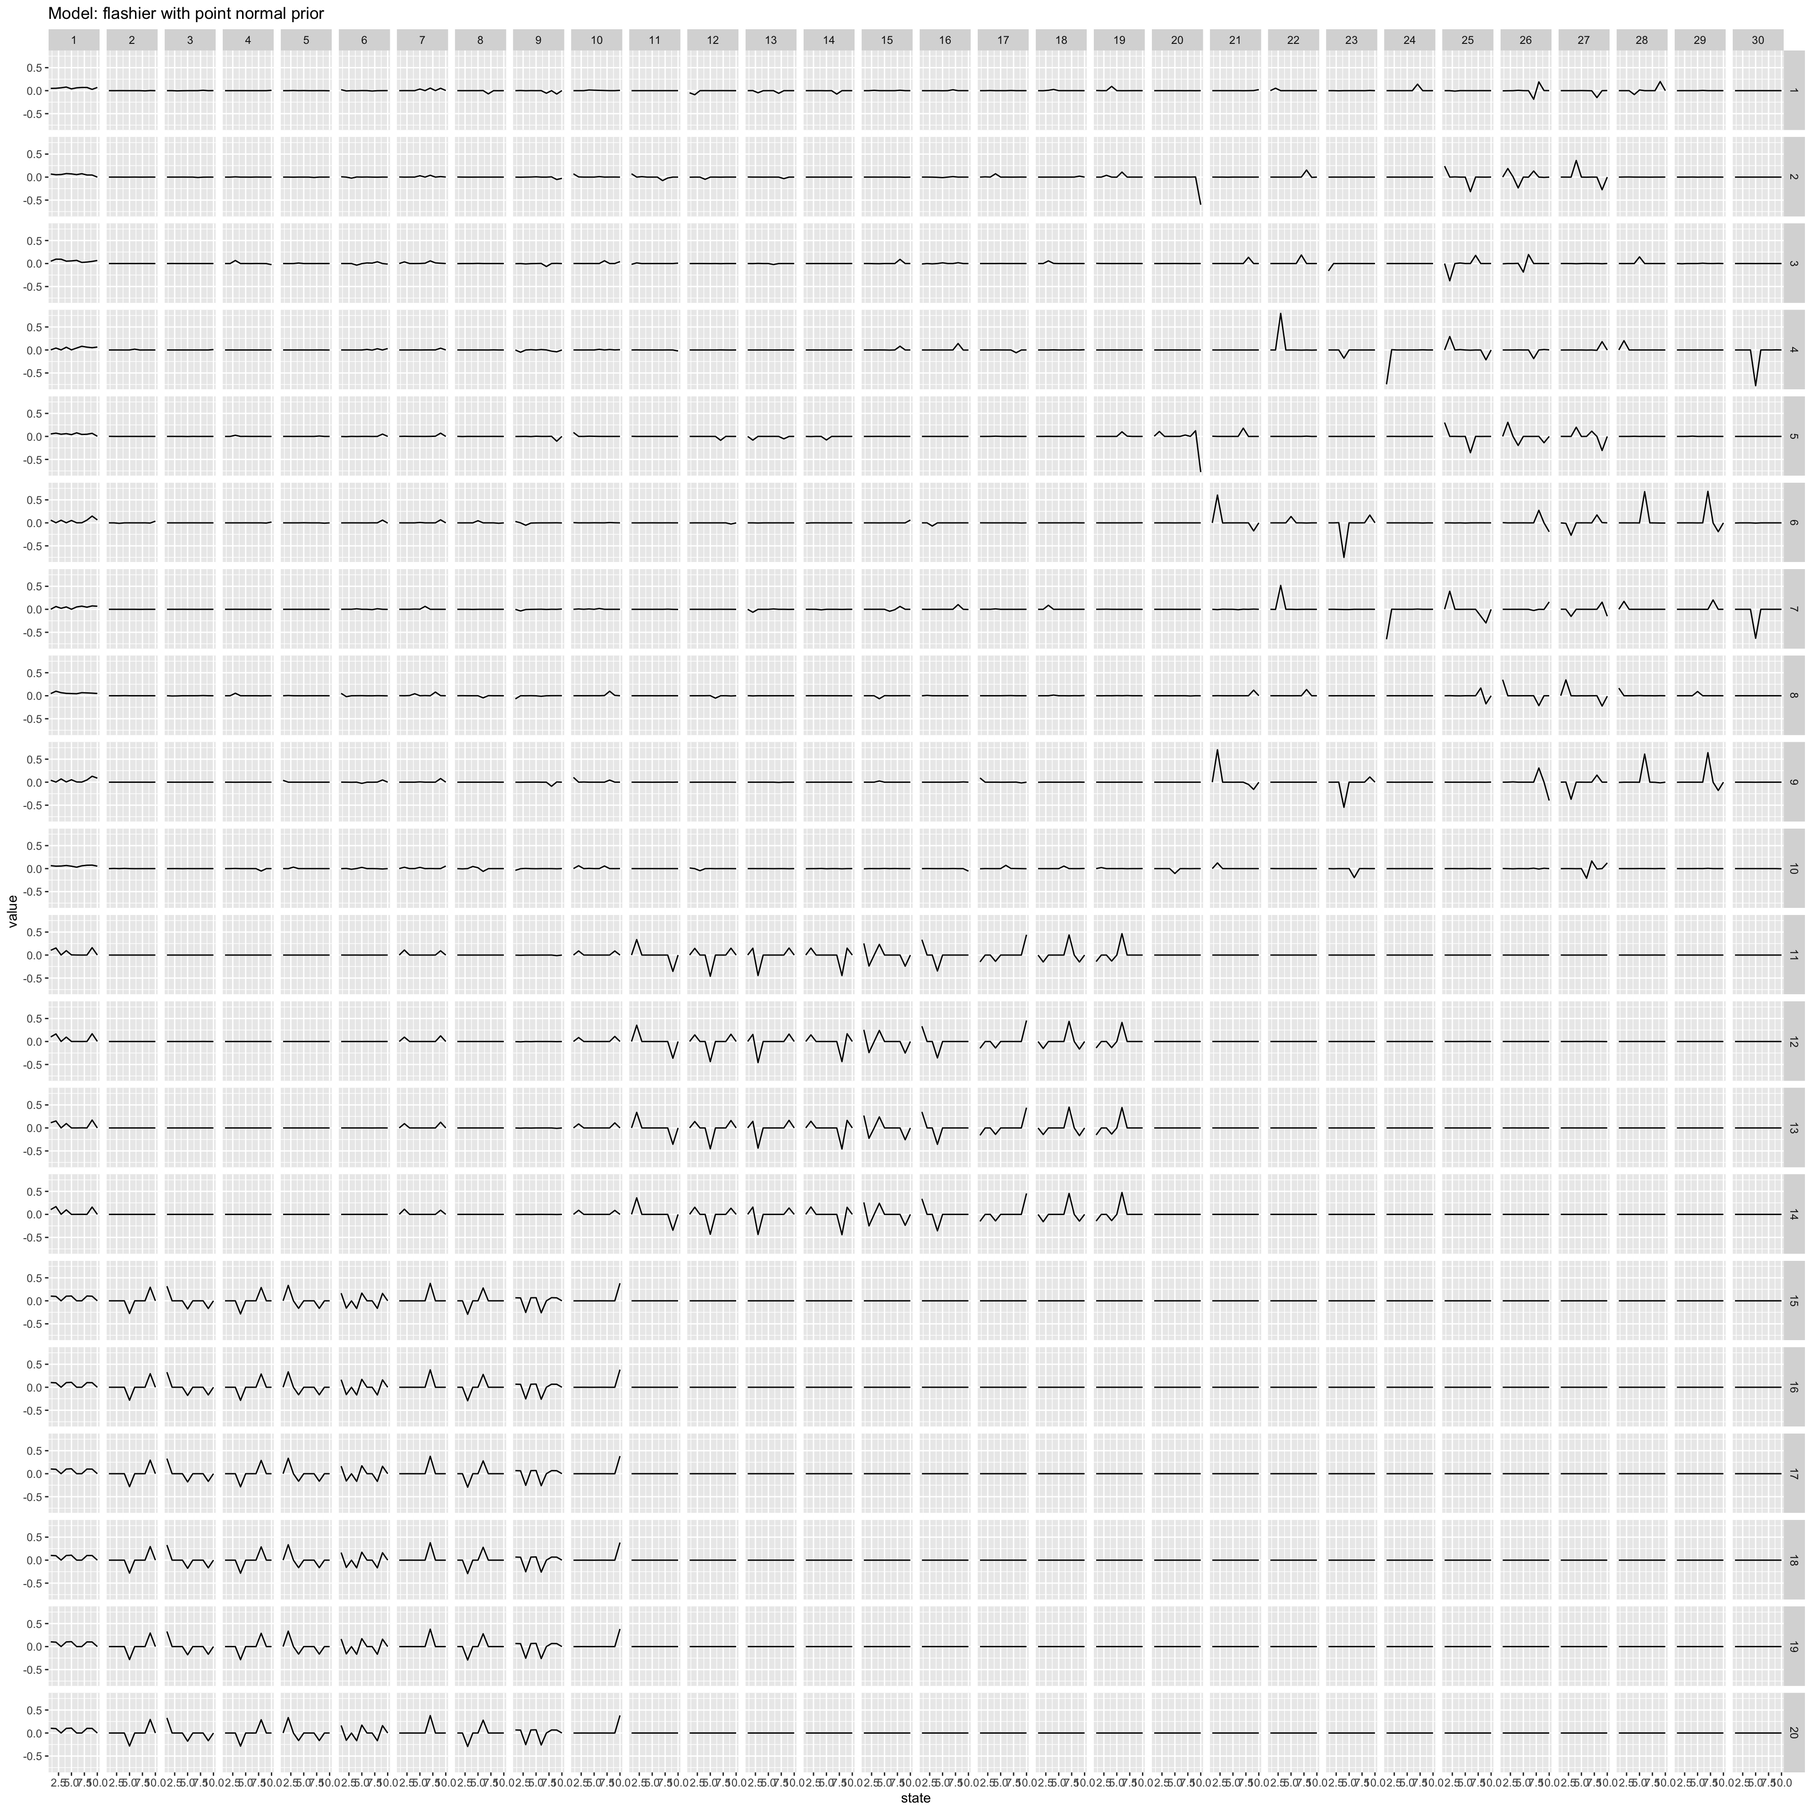
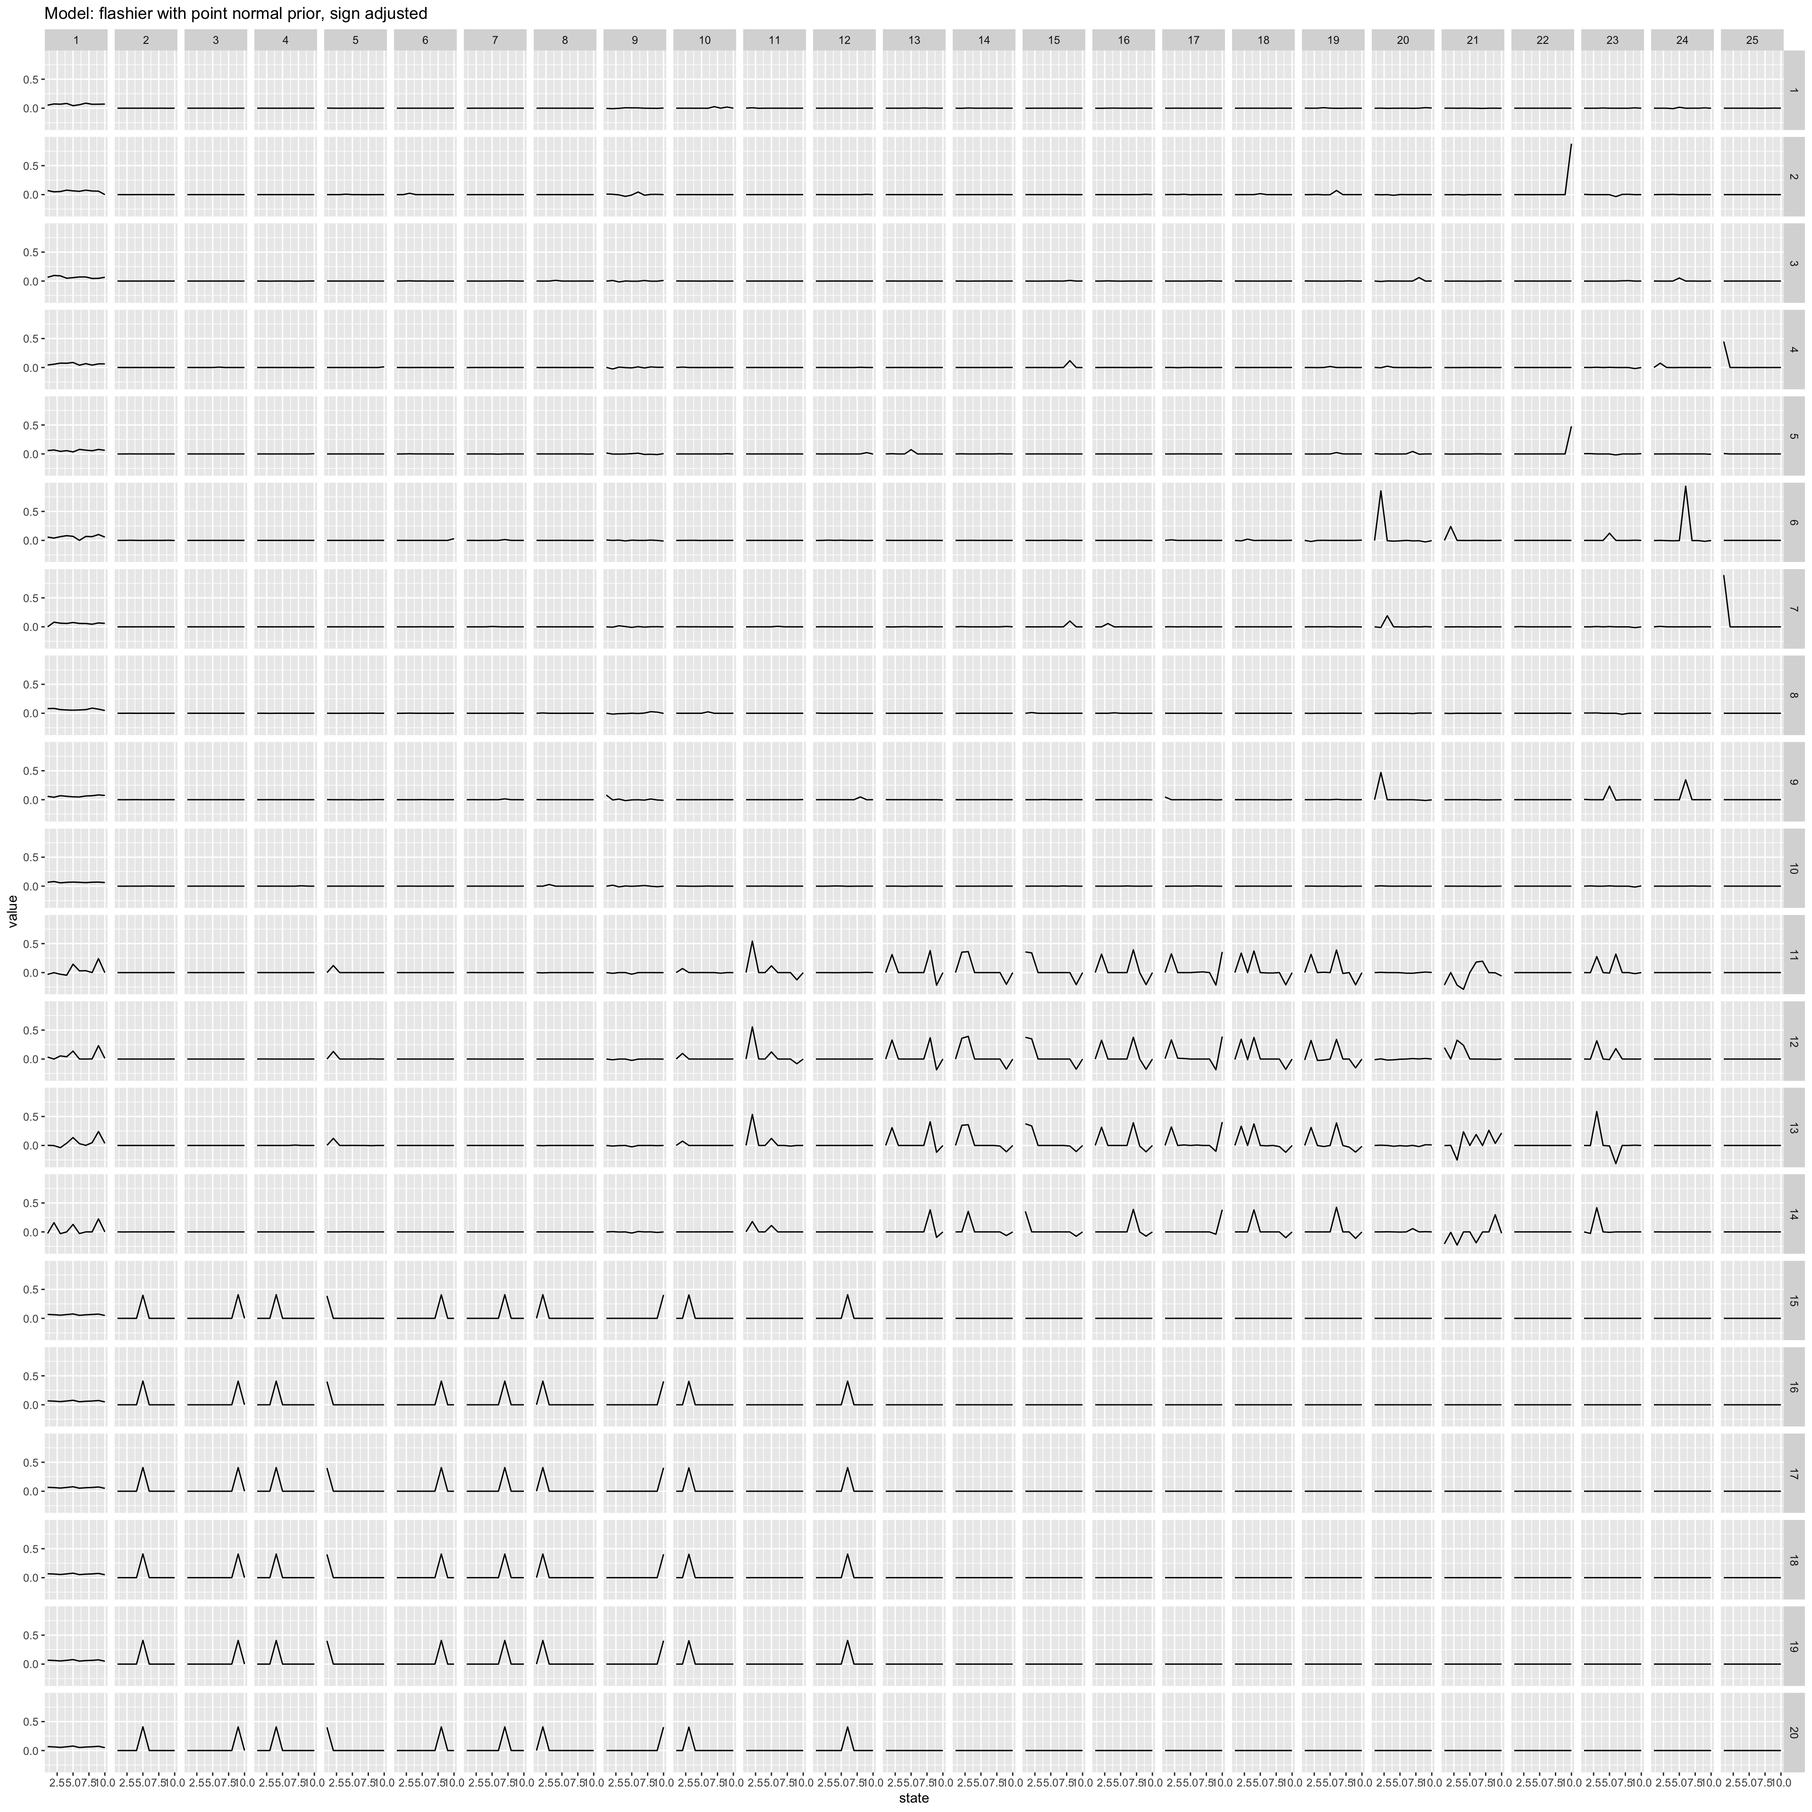
Build site.

Changed region(s): [[0.0, 0.0, 0.9688, 1.0]]

diff --git a/docs/flashier.html b/docs/flashier.html
@@ -11,7 +11,7 @@
 
 <meta name="author" content="Joonsuk Kang" />
 
-<meta name="date" content="2020-03-23" />
+<meta name="date" content="2020-03-26" />
 
 <title>flashier on toy data</title>
 
@@ -387,7 +387,7 @@ div.section {
 
 <h1 class="title toc-ignore">flashier on toy data</h1>
 <h4 class="author">Joonsuk Kang</h4>
-<h4 class="date">2020-03-23</h4>
+<h4 class="date">2020-03-26</h4>
 
 </div>
 
@@ -412,7 +412,7 @@ div.section {
 <div class="tab-content">
 <div id="summary" class="tab-pane fade in active">
 <p>
-<strong>Last updated:</strong> 2020-03-24
+<strong>Last updated:</strong> 2020-03-26
 </p>
 <p>
 <strong>Checks:</strong> <span class="glyphicon glyphicon-ok text-success" aria-hidden="true"></span> 7 <span class="glyphicon glyphicon-exclamation-sign text-danger" aria-hidden="true"></span> 0
@@ -503,10 +503,10 @@ This reproducible <a href="http://rmarkdown.rstudio.com">R Markdown</a> analysis
 <div class="panel panel-default">
 <div class="panel-heading">
 <p class="panel-title">
-<a data-toggle="collapse" data-parent="#workflowr-checks" href="#strongRepositoryversionstrongahrefhttpsgithubcomjoonsukkangaainttreefc04947682ebcc1f24ab6fea7e2a5fa884f22374targetblankfc04947a"> <span class="glyphicon glyphicon-ok text-success" aria-hidden="true"></span> <strong>Repository version:</strong> <a href="https://github.com/joonsukkang/aaint/tree/fc04947682ebcc1f24ab6fea7e2a5fa884f22374" target="_blank">fc04947</a> </a>
+<a data-toggle="collapse" data-parent="#workflowr-checks" href="#strongRepositoryversionstrongahrefhttpsgithubcomjoonsukkangaainttree8615dccac0ada9ded8393419d365985ad051e94btargetblank8615dcca"> <span class="glyphicon glyphicon-ok text-success" aria-hidden="true"></span> <strong>Repository version:</strong> <a href="https://github.com/joonsukkang/aaint/tree/8615dccac0ada9ded8393419d365985ad051e94b" target="_blank">8615dcc</a> </a>
 </p>
 </div>
[2 lines of base64/hex data omitted]
 <div class="panel-body">
 <p>
 Great! You are using Git for version control. Tracking code development and connecting the code version to the results is critical for reproducibility. The version displayed above was the version of the Git repository at the time these results were generated. <br><br> Note that you need to be careful to ensure that all relevant files for the analysis have been committed to Git prior to generating the results (you can use <code>wflow_publish</code> or <code>wflow_git_commit</code>). workflowr only checks the R Markdown file, but you know if there are other scripts or data files that it depends on. Below is the status of the Git repository when the results were generated:
@@ -519,9 +519,10 @@ Ignored files:
 
 Untracked files:
     Untracked:  analysis/STRUCTURE.Rmd
-    Untracked:  analysis/flash_pdz.Rmd
+    Untracked:  analysis/flashier2.Rmd
     Untracked:  analysis/ideas.Rmd
     Untracked:  analysis/mm_20200311.Rmd
+    Untracked:  analysis/pdz.Rmd
     Untracked:  analysis/temp.Rmd
     Untracked:  analysis/test.Rmd
     Untracked:  code/convert_files_mat_to_text.R
@@ -585,6 +586,40 @@ Message
 Rmd
 </td>
 <td>
+<a href="https://github.com/joonsukkang/aaint/blob/8615dccac0ada9ded8393419d365985ad051e94b/analysis/flashier.Rmd" target="_blank">8615dcc</a>
+</td>
+<td>
+Joonsuk Kang
+</td>
+<td>
+2020-03-26
+</td>
+<td>
+add column specific residual variance to flashier configurations
+</td>
+</tr>
+<tr>
+<td>
+html
+</td>
+<td>
+<a href="https://rawcdn.githack.com/joonsukkang/aaint/1964152c7e83cafe4a9e1027b823700278c692d8/docs/flashier.html" target="_blank">1964152</a>
+</td>
+<td>
+Joonsuk Kang
+</td>
+<td>
+2020-03-24
+</td>
+<td>
+Build site.
+</td>
+</tr>
+<tr>
+<td>
+Rmd
+</td>
+<td>
 <a href="https://github.com/joonsukkang/aaint/blob/fc04947682ebcc1f24ab6fea7e2a5fa884f22374/analysis/flashier.Rmd" target="_blank">fc04947</a>
 </td>
 <td>
@@ -642,12 +677,12 @@ initial commit for flashier and flash_omega
 <h2>Data</h2>
 <p>Matrix <span class="math inline">\(A\)</span> with <span class="math inline">\(dim(A)=N \times L\)</span> and <span class="math inline">\(A_{ij}\in \{1,2,\dots,q\}\)</span> where N=300 sequences; L=20 positions; q=10 potts-states</p>
 <pre class="r"><code>library(tidyverse)</code></pre>
-<pre><code>── Attaching packages ────────────────────────────────────────────────────────────── tidyverse 1.3.0 ──</code></pre>
+<pre><code>── Attaching packages ───────────────────────────────────────────────────────────────── tidyverse 1.3.0 ──</code></pre>
 <pre><code>✓ ggplot2 3.3.0     ✓ purrr   0.3.3
 ✓ tibble  2.1.3     ✓ dplyr   0.8.4
 ✓ tidyr   1.0.2     ✓ stringr 1.4.0
 ✓ readr   1.3.1     ✓ forcats 0.5.0</code></pre>
-<pre><code>── Conflicts ───────────────────────────────────────────────────────────────── tidyverse_conflicts() ──
+<pre><code>── Conflicts ──────────────────────────────────────────────────────────────────── tidyverse_conflicts() ──
 x dplyr::filter() masks stats::filter()
 x dplyr::lag()    masks stats::lag()</code></pre>
 <pre class="r"><code>data &lt;- read_table2(&quot;data/align300_q10&quot;, col_names = FALSE)</code></pre>
@@ -677,7 +712,7 @@ This happens occasionally, perhaps due to numeric reasons. You could ignore this
 warning, but you might like to check out https://github.com/stephenslab/flashr/
 issues/26 for more details.</code></pre>
 <pre class="r"><code>toc()</code></pre>
-<pre><code>15.407 sec elapsed</code></pre>
+<pre><code>15.568 sec elapsed</code></pre>
 <pre class="r"><code>factor &lt;- flashr::flash_get_ldf(fit)$f
 l &lt;- ncol(factor)
 data.frame(factor = rep(1:l, each=200),
@@ -777,7 +812,7 @@ Joonsuk Kang
 </div>
 <div id="estimation-with-flashier-package" class="section level2">
 <h2>Estimation with <code>flashier</code> package</h2>
-<p>The <code>flashier</code> package provides a variety of choices for prior distribution families. The results from a few relevant choices are shown below. Note that the <code>flash</code> package has point normal prior family as default option.</p>
+<p>The <code>flashier</code> package provides a variety of choices for prior distribution families. The results from point normal and nonnegative priors are shown below. Note that the <code>flash</code> package has point normal prior family as default option. Also, column specific residual variances are assumed in both flash and flashier.</p>
 <div id="point-normal-prior-default" class="section level4">
 <h4>point normal prior (default)</h4>
 <p>The default for prior family is point normal: <code>prior.family = prior.point.normal()</code></p>
@@ -786,18 +821,27 @@ Joonsuk Kang
   method      from  
   print.flash flashr</code></pre>
 <pre class="r"><code>tic()
-fit &lt;- flashier::flash(data, greedy.Kmax = 30, backfit=TRUE,
-                       verbose.lvl = 0) # at most 30 factors
+fit &lt;- flashier::flash(data, greedy.Kmax = 30, backfit=TRUE, # at most 30 factors
+                       verbose.lvl = 0,
+                       var.type=2 # column specific residual variance
+                       ) 
 toc()</code></pre>
-<pre><code>15.904 sec elapsed</code></pre>
+<pre><code>7.303 sec elapsed</code></pre>
 <pre class="r"><code>factor &lt;- fit$loadings.pm[[2]]
 l &lt;- ncol(factor)
+
+# adjust the sign of factors so that the mean weight for each factor is positive
+for (colidx in 1:ncol(factor)){
+  s &lt;- sign(colMeans(factor))[colidx]
+  factor[,colidx] &lt;- factor[,colidx]*s
+}
+
 data.frame(factor = rep(1:l, each=200),
            position = rep(rep(1:20, each=10), times=l),
            state = rep(1:10, times=20*l),
            value = c(factor)) %&gt;%
   ggplot()+geom_line(aes(x=state, y=value))+facet_grid(position~factor)+
-  ggtitle(&quot;Model: flashier with point normal prior&quot;)</code></pre>
+  ggtitle(&quot;Model: flashier with point normal prior, sign adjusted&quot;)</code></pre>
 <p><img src="figure/flashier.Rmd/unnamed-chunk-3-1.png" width="1920" style="display: block; margin: auto;" /></p>
 <p>
 <button type="button" class="btn btn-default btn-xs btn-workflowr btn-workflowr-fig" data-toggle="collapse" data-target="#fig-unnamed-chunk-3-1">
@@ -836,7 +880,7 @@ Joonsuk Kang
 </table>
 </div>
 </div>
-<p>The fitted model with point normal prior fails to preserve the sparsity observed in the fitted model from baseline <code>flash</code> model, though taking the same point normal prior.</p>
+<p>For the same setting (point normal prior and column specific residual variance), the two approaches show almost idencial resuts. The flashier implementation is two times faster.</p>
 </div>
 <div id="nonnegative-prior" class="section level4">
 <h4>nonnegative prior</h4>
@@ -844,11 +888,13 @@ Joonsuk Kang
 tic()
 fit &lt;- flashier::flash(data, greedy.Kmax = 30, backfit=TRUE,
                        prior.family = prior.nonnegative(),
-                       verbose.lvl=0) # at most 30 factors</code></pre>
+                       verbose.lvl=0,
+                       var.type=2 # column specific residual variance
+                       ) </code></pre>
 <pre><code>Warning in scale.EF(EF): Fitting stopped after the initialization function
 failed to find a non-zero factor.</code></pre>
 <pre class="r"><code>toc()</code></pre>
-<pre><code>32.09 sec elapsed</code></pre>
+<pre><code>26.212 sec elapsed</code></pre>
 <pre class="r"><code>factor &lt;- fit$loadings.pm[[2]]
 l &lt;- ncol(factor)
 data.frame(factor = rep(1:l, each=200),
@@ -895,121 +941,7 @@ Joonsuk Kang
 </table>
 </div>
 </div>
-<p>The fitted model with nonnegative prior has smaller number of factors (18) than the other fitted models, which stop only after hitting the maximum setting (30). The model captures the two strong correlation structures in positions 11-14 and 15–20, but fails to identify factors which capture correlation structures in 1–10, which are independent from the structures in 11-20.</p>
-</div>
-<div id="point-laplace-prior" class="section level4">
-<h4>point laplace prior</h4>
-<pre class="r"><code>#library(flashier)
-tic()
-fit &lt;- flashier::flash(data, greedy.Kmax = 30, backfit=TRUE,
-                       prior.family = prior.point.laplace(),
-                       verbose.lvl=0) # at most 30 factors
-toc()</code></pre>
-<pre><code>23.524 sec elapsed</code></pre>
-<pre class="r"><code>factor &lt;- fit$loadings.pm[[2]]
-l &lt;- ncol(factor)
-data.frame(factor = rep(1:l, each=200),
-           position = rep(rep(1:20, each=10), times=l),
-           state = rep(1:10, times=20*l),
-           value = c(factor)) %&gt;%
-  ggplot()+geom_line(aes(x=state, y=value))+facet_grid(position~factor)+
-  ggtitle(&quot;Model: flashier with point laplace prior&quot;)</code></pre>
-<p><img src="figure/flashier.Rmd/unnamed-chunk-5-1.png" width="1920" style="display: block; margin: auto;" /></p>
-<p>
-<button type="button" class="btn btn-default btn-xs btn-workflowr btn-workflowr-fig" data-toggle="collapse" data-target="#fig-unnamed-chunk-5-1">
-Past versions of unnamed-chunk-5-1.png
-</button>
-</p>
-<div id="fig-unnamed-chunk-5-1" class="collapse">
-<div class="table-responsive">
-<table class="table table-condensed table-hover">
-<thead>
-<tr>
-<th>
-Version
-</th>
-<th>
-Author
-</th>
-<th>
-Date
-</th>
-</tr>
-</thead>
-<tbody>
-<tr>
-<td>
-<a href="https://github.com/joonsukkang/aaint/blob/d35740a25b1bc1e2f077b595f2b41794bf4e14e1/docs/figure/flashier.Rmd/unnamed-chunk-5-1.png" target="_blank">d35740a</a>
-</td>
-<td>
-Joonsuk Kang
-</td>
-<td>
-2020-03-24
-</td>
-</tr>
-</tbody>
-</table>
-</div>
-</div>
-</div>
-<div id="normal-scale-mixture-prior" class="section level4">
-<h4>normal scale mixture prior</h4>
-<pre class="r"><code>#library(flashier)
-tic()
-fit &lt;- flashier::flash(data, greedy.Kmax = 30, backfit=TRUE,
-                       prior.family = prior.normal.scale.mix(),
-                       verbose.lvl=0) # at most 30 factors
-toc()</code></pre>
-<pre><code>153.027 sec elapsed</code></pre>
-<pre class="r"><code>factor &lt;- fit$loadings.pm[[2]]
-l &lt;- ncol(factor)
-data.frame(factor = rep(1:l, each=200),
-           position = rep(rep(1:20, each=10), times=l),
-           state = rep(1:10, times=20*l),
-           value = c(factor)) %&gt;%
-  ggplot()+geom_line(aes(x=state, y=value))+facet_grid(position~factor)+
-  ggtitle(&quot;Model: flashier with normal scale mixture prior&quot;)</code></pre>
-<p><img src="figure/flashier.Rmd/unnamed-chunk-6-1.png" width="1920" style="display: block; margin: auto;" /></p>
-<p>
-<button type="button" class="btn btn-default btn-xs btn-workflowr btn-workflowr-fig" data-toggle="collapse" data-target="#fig-unnamed-chunk-6-1">
-Past versions of unnamed-chunk-6-1.png
-</button>
-</p>
-<div id="fig-unnamed-chunk-6-1" class="collapse">
-<div class="table-responsive">
-<table class="table table-condensed table-hover">
-<thead>
-<tr>
-<th>
-Version
-</th>
-<th>
-Author
-</th>
-<th>
-Date
-</th>
-</tr>
-</thead>
-<tbody>
-<tr>
-<td>
-<a href="https://github.com/joonsukkang/aaint/blob/d35740a25b1bc1e2f077b595f2b41794bf4e14e1/docs/figure/flashier.Rmd/unnamed-chunk-6-1.png" target="_blank">d35740a</a>
-</td>
-<td>
-Joonsuk Kang
-</td>
-<td>
-2020-03-24
-</td>
-</tr>
-</tbody>
-</table>
-</div>
-</div>
-<p>Fitted models with Point laplace or normal scale mixture prior produce similar factors as in baseline <code>flash</code>.</p>
-<p>Time-wise, the flash took 16 seconds, which is on par with point normal prior (default of flashier). Point laplace prior takes x0.5 more time and nonnegative prior x1 more time. Normal scale mixture prior took the longest.</p>
+<p>The fitted model with nonnegative prior has smaller number of factors (18) than the other fitted models. The model captures the two strong correlation structures in positions 11-14 and 15–20, and also correlations between (2 and 5) and (6 and 9).</p>
 <br>
 <p>
 <button type="button" class="btn btn-default btn-workflowr btn-workflowr-sessioninfo" data-toggle="collapse" data-target="#workflowr-sessioninfo" style="display: block;">
